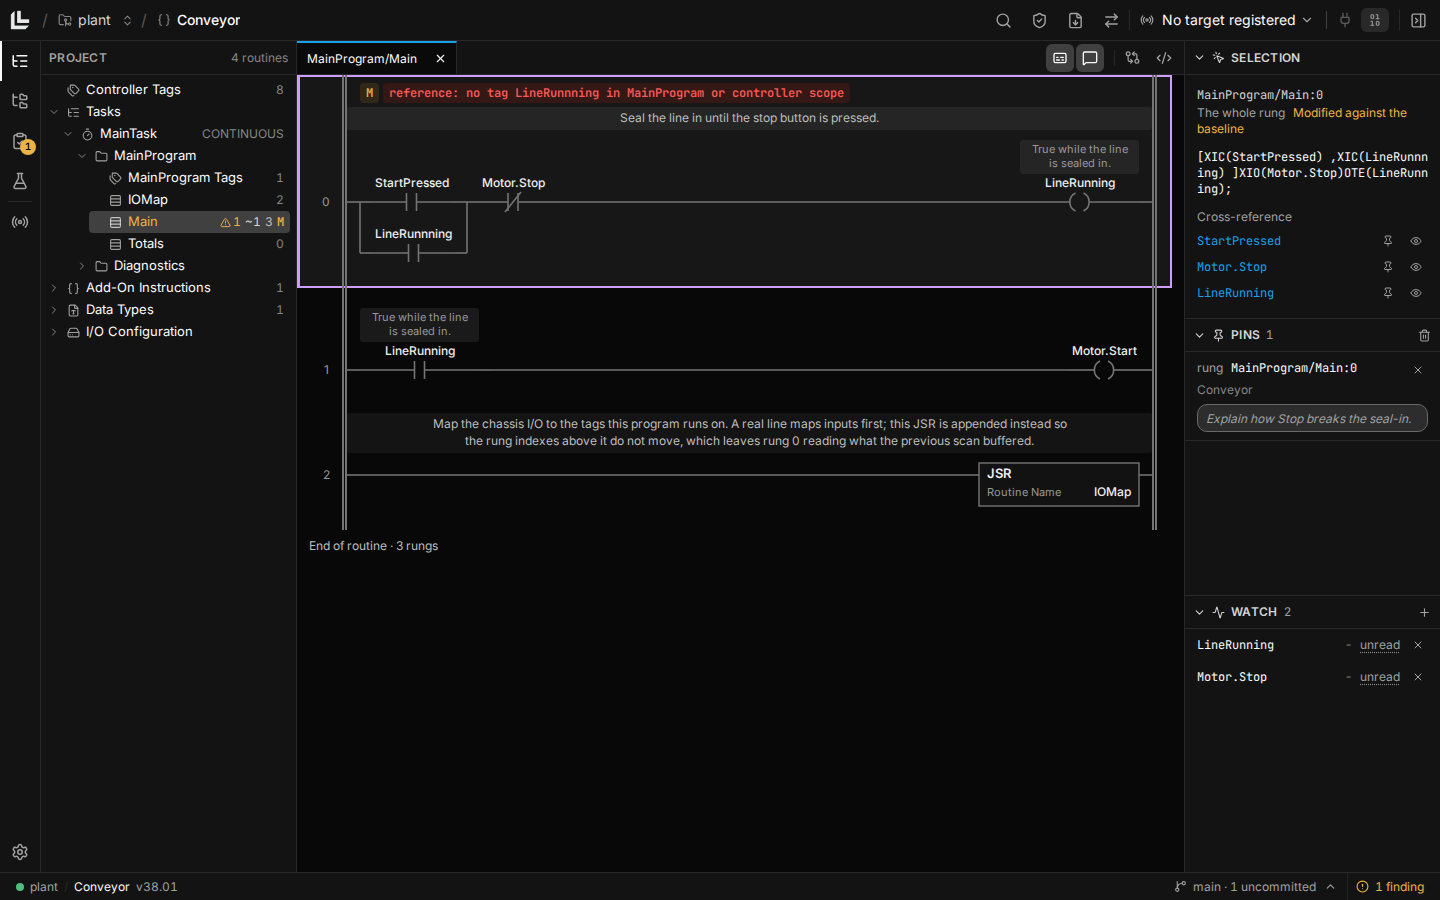
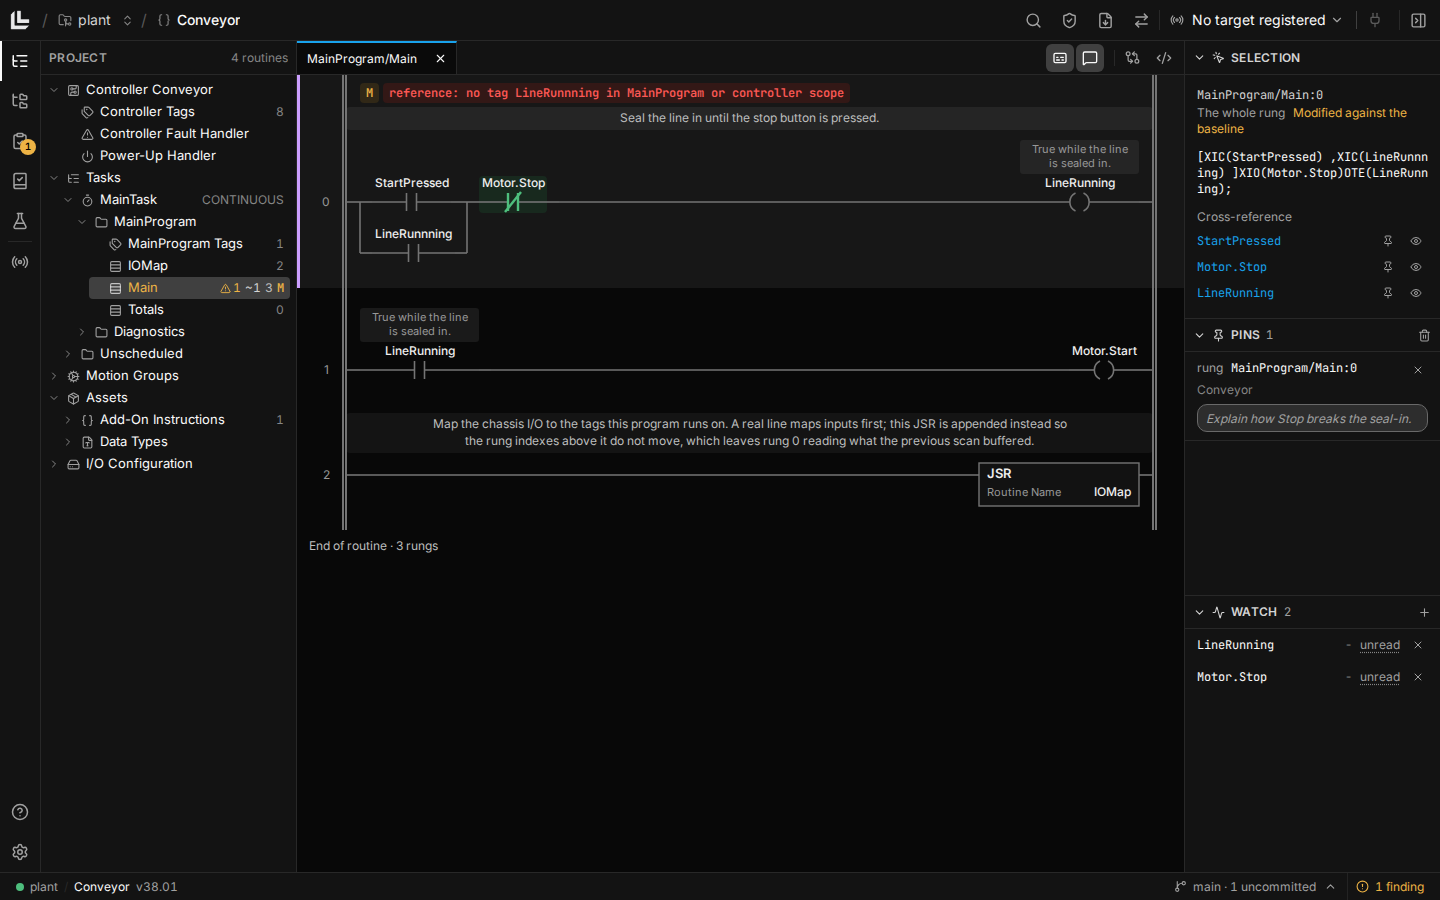
Publish the README for Logicly 0.20.0 (#9)
## Change

Publishes the README from the source repository for Logicly 0.20.0,
copying only the files the source's publishing procedure lists.

- `README.md`: the hero image's alt text now reads "A live ladder,
watched tags and a pinned rung in the Conveyor example".
- `docs/assets/hero.png`, `findings.png` and `runs.png`: retaken from
the released 0.20.0 viewer, which lays the project tree out under
Studio's headings.

## Verification

- Each copied file is byte-identical to the merged source
(zanotra/logicly#1341). `LICENSE`, the logo and `demo.gif` were already
identical and are unchanged.
- The customer-names check on the staged content is clean.
- After merging: the public page's images, section links and download
links load.

🤖 Generated with [Claude Code](https://claude.com/claude-code)

diff --git a/README.md b/README.md
@@ -34,7 +34,7 @@ Bring a Logix project into your coding workflow. Logicly turns an L5X export int
 Ladder updates as your agent saves. Compare Git changes, watch live tags and leave a pinned note for your agent.
 
 <p align="center">
-  <img src="docs/assets/hero.png" alt="Live ladder values, watched tags and a pinned rung in the Conveyor example" width="720" />
+  <img src="docs/assets/hero.png" alt="A live ladder, watched tags and a pinned rung in the Conveyor example" width="720" />
 </p>
 
 ### Find mistakes early
